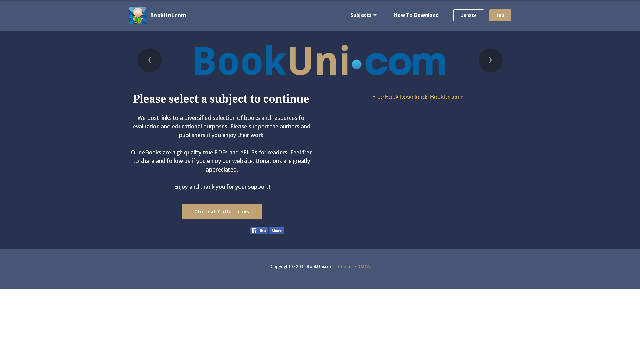
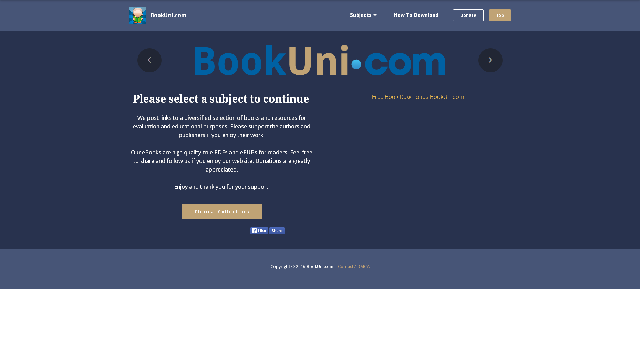
test
test

Changed region(s): [[0.625, 0.2632, 0.7188, 0.2924], [0.7188, 0.0292, 0.75, 0.0585], [0.25, 0.0292, 0.2812, 0.0585]]

diff --git a/cc/anatomic basis of neurologic diagnosis.html b/cc/anatomic basis of neurologic diagnosis.html
@@ -1,0 +1,89 @@
+<!DOCTYPE html>
+<html>
+<head>
+  <meta charset="UTF-8">
+  <meta http-equiv="X-UA-Compatible" content="IE=edge">
+  <meta name="viewport" content="width=device-width, initial-scale=1">
+  <link rel="shortcut icon" href="/assets/images/bookuniavatar.png" type="image/x-icon">
+  <link rel="stylesheet" href="https://fonts.googleapis.com/css?family=Lora:400,700,400italic,700italic&amp;subset=latin">
+  <link rel="stylesheet" href="https://fonts.googleapis.com/css?family=Montserrat:400,700">
+  <link rel="stylesheet" href="https://fonts.googleapis.com/css?family=Raleway:400,100,200,300,500,600,700,800,900">
+  <link rel="stylesheet" href="/assets/et-line-font-plugin/style.css">
+  <link rel="stylesheet" href="/assets/bootstrap-material-design-font/css/material.css">
+  <link rel="stylesheet" href="/assets/tether/tether.min.css">
+  <link rel="stylesheet" href="/assets/bootstrap/css/bootstrap.min.css">
+  <link rel="stylesheet" href="/assets/socicon/css/socicon.min.css">
+  <link rel="stylesheet" href="/assets/dropdown/css/style.css">
+  <link rel="stylesheet" href="/assets/theme/css/style.css">
+  <link rel="stylesheet" href="/assets/mobirise/css/mbr-additional.css" type="text/css">
+  <link rel="stylesheet" href="/add/mixitup.css">
+<script src="/add/pre.js"></script>
+<title>Anatomic Basis of Neurologic Diagnosis - BookUni.com</title>
+<meta name="description" content="Anatomic Basis of Neurologic Diagnosis - Free Book Download Links and Amazon Links. PDF and ePUB formats for your reading pleasure!">
+<meta property="og:image" content="https://images-na.ssl-images-amazon.com/images/I/51Ji-nCmjtL.jpg" />
+</head>
+<body>
+<section id="ext_menu-15">
+    <nav class="navbar navbar-dropdown navbar-fixed-top">
+        <div class="container">
+            <div class="mbr-table">
+                <div class="mbr-table-cell">
+                    <div class="navbar-brand">
+                        <a href="/" class="navbar-logo"><img src="/assets/images/bookuniavatar.png" alt="BookUni" title="BookUni"></a>
+                        <a class="navbar-caption" href="/">BookUni.com</a>
+                    </div>
+                </div>
+                <div class="mbr-table-cell">
+                    <button class="navbar-toggler pull-xs-right hidden-md-up" type="button" data-toggle="collapse" data-target="#exCollapsingNavbar"><div class="hamburger-icon"></div></button>
+                    <ul class="nav-dropdown collapse pull-xs-right nav navbar-nav navbar-toggleable-sm" id="exCollapsingNavbar"><li class="nav-item"><a class="nav-link link" href="/download.html">How To Download</a></li><li class="nav-item nav-btn"><a class="nav-link btn btn-white btn-white-outline" href="https://www.paypal.me/BookUni" target="_blank">Donate</a></li><li class="nav-item nav-btn"><a class="nav-link btn btn-primary" href="#top">Top</a></li></ul>
+                    <button hidden="" class="navbar-toggler navbar-close" type="button" data-toggle="collapse" data-target="#exCollapsingNavbar"><div class="close-icon"></div></button>
+                </div>
+            </div>
+        </div>
+    </nav>
+</section>
+<div id="custom-html-17" custom-code="true" class="mbr-after-navbar"><section class="mbr-section" style="background-color: rgb(40, 50, 78); padding-top: 120px; padding-bottom: 20px;">
+    <div class="container">
+        <div class="row">
+            <div class="mbr-table-md-up">
+                <div class="mbr-table-cell mbr-valign-top col-md-2 text-xs-center">
+                    <div class="mbr-figure"><img src="https://images-na.ssl-images-amazon.com/images/I/51Ji-nCmjtL.jpg" alt="Anatomic Basis of Neurologic Diagnosis (1st 2009) [Alberstone, Benzel, Najm & Steinmetz]"></div>
+                    <!-- 链接: http://pan.baidu.com/s/1cDu0zW 密码: fdrs --><small class="mbr-section-subtitle" style="margin-bottom: 20px">(1st 2009)</small>
+                    <div class="addthis_inline_follow_toolbox"></div>
+                    <iframe src="https://www.facebook.com/plugins/like.php?href=https%3A%2F%2Fwww.facebook.com%2FBookUniSite&amp;width=120&amp;layout=button&amp;action=like&amp;size=large&amp;show_faces=false&amp;share=true&amp;height=50&amp;appId" width="120" height="50" style="border:none;overflow:hidden" scrolling="no" frameborder="0" allowtransparency="true"></iframe>
+                    <!-- ADs <div></div> -->
+                </div>
+                <div class="mbr-table-cell mbr-valign-top col-md-7">
+                    <h1 class="mbr-section-title display-2">Anatomic Basis of Neurologic Diagnosis</h1>
+                    <small class="mbr-section-subtitle" style="margin-bottom: 20px">[Alberstone, Benzel, Najm & Steinmetz]</small>
+                    <p>Anatomic Basis of Neurologic Diagnosis is a lavishly illustrated book that places special emphasis on the paramount importance of signs and symptoms for the accurate diagnosis of neurologic disorders. It opens with a comprehensive review of neuroembryology, enabling readers to gain knowledge of normal nervous system development and related developmental disorders. The second section of the book comprises an easily accessible presentation of the anatomy of regional parts and to-the-point information on the cardinal manifestations of disease. Separate chapters in the third section of the book present the anatomy of different functional systems and provide practical approaches to diagnosing patients with system disorders. A final chapter covers the anatomy of the vascular system and cerebrospinal fluid.</p>
+                    <h3>Highlights:</h3>
+                    <ul><li>Practical organization of chapters, according to regions and functional systems, reflects the clinician's approach to patient care</li><li>Full-color illustrations provide an indispensable visual aid to learning and reviewing clinically relevant neurologic anatomy and pathways</li><li>Numerous tables summarize key points</li><li>Ideal for reading cover-to-cover, this book is essential for residents and students seeking to fully understand the complexity of clinical neuroanatomy. Seasoned clinicians will find the book a valuable refresher.</li></ul>
+                    <!-- ADs <div style="padding-bottom: 20px"></div> -->
+                    <div class="text-xs-center"><a class="btn btn-warning" href="https://www.amazon.com/dp/B005KMEWVQ" target="_blank">Buy on Amazon</a> <a class="btn btn-primary" href="http://viid.me/qeJ5GZ" target="_blank">Download PDF</a> <a class="btn btn-info" href="http://adf.ly/1gaXqG" target="_blank">Password Link</a></div>
+                </div>
+                <div class="mbr-table-cell mbr-valign-top col-md-3 text-md-left text-xs-center">
+                    <h2 class="mbr-section-title display-2">Subjects</h2>
+                    <p><a href="/subject/clinical collections.html">Clinical Collections</a></p>
+                    <iframe src="https://www.facebook.com/plugins/like.php?href=https%3A%2F%2Fwww.facebook.com%2FBookUniSite&amp;width=120&amp;layout=button&amp;action=like&amp;size=large&amp;show_faces=false&amp;share=true&amp;height=65&amp;appId" width="120" height="50" style="border:none;overflow:hidden" scrolling="no" frameborder="0" allowtransparency="true"></iframe>
+                </div>
+            </div>
+        </div>
+        <!-- ADs <div></div> -->
+    </div>
+</section></div>
+<footer class="mbr-small-footer mbr-section mbr-section-nopadding" id="footer1-16" style="background-color: rgb(71, 85, 119); padding-top: 2.625rem; padding-bottom: 3.5rem;">
+    <div class="container">
+        <p class="text-xs-center">Copyright © 2016 BookUni.com | <a href="/contact.html" target="_blank">Contact / DMCA</a></p>
+    </div>
+</footer>
+  <script src="/assets/web/assets/jquery/jquery.min.js"></script>
+  <script src="/assets/tether/tether.min.js"></script>
+  <script src="/assets/bootstrap/js/bootstrap.min.js"></script>
+  <script src="/assets/smooth-scroll/SmoothScroll.js"></script>
+  <script src="/assets/dropdown/js/script.min.js"></script>
+  <script src="/assets/touchSwipe/jquery.touchSwipe.min.js"></script>
+  <script src="/assets/theme/js/script.js"></script>
+  <script src="/add/post.js"></script>
+</body>
+</html>

diff --git a/cc/al-mefty's meningiomas.html b/cc/al-mefty's meningiomas.html
@@ -1,0 +1,87 @@
+<!DOCTYPE html>
+<html>
+<head>
+  <meta charset="UTF-8">
+  <meta http-equiv="X-UA-Compatible" content="IE=edge">
+  <meta name="viewport" content="width=device-width, initial-scale=1">
+  <link rel="shortcut icon" href="/assets/images/bookuniavatar.png" type="image/x-icon">
+  <link rel="stylesheet" href="https://fonts.googleapis.com/css?family=Lora:400,700,400italic,700italic&amp;subset=latin">
+  <link rel="stylesheet" href="https://fonts.googleapis.com/css?family=Montserrat:400,700">
+  <link rel="stylesheet" href="https://fonts.googleapis.com/css?family=Raleway:400,100,200,300,500,600,700,800,900">
+  <link rel="stylesheet" href="/assets/et-line-font-plugin/style.css">
+  <link rel="stylesheet" href="/assets/bootstrap-material-design-font/css/material.css">
+  <link rel="stylesheet" href="/assets/tether/tether.min.css">
+  <link rel="stylesheet" href="/assets/bootstrap/css/bootstrap.min.css">
+  <link rel="stylesheet" href="/assets/socicon/css/socicon.min.css">
+  <link rel="stylesheet" href="/assets/dropdown/css/style.css">
+  <link rel="stylesheet" href="/assets/theme/css/style.css">
+  <link rel="stylesheet" href="/assets/mobirise/css/mbr-additional.css" type="text/css">
+  <link rel="stylesheet" href="/add/mixitup.css">
+<script src="/add/pre.js"></script>
+<title>Al-Mefty's Meningiomas - BookUni.com</title>
+<meta name="description" content="Al-Mefty's Meningiomas - Free Book Download Links and Amazon Links. PDF and ePUB formats for your reading pleasure!">
+<meta property="og:image" content="https://images-na.ssl-images-amazon.com/images/I/41OX-1U+L9L.jpg" />
+</head>
+<body>
+<section id="ext_menu-15">
+    <nav class="navbar navbar-dropdown navbar-fixed-top">
+        <div class="container">
+            <div class="mbr-table">
+                <div class="mbr-table-cell">
+                    <div class="navbar-brand">
+                        <a href="/" class="navbar-logo"><img src="/assets/images/bookuniavatar.png" alt="BookUni" title="BookUni"></a>
+                        <a class="navbar-caption" href="/">BookUni.com</a>
+                    </div>
+                </div>
+                <div class="mbr-table-cell">
+                    <button class="navbar-toggler pull-xs-right hidden-md-up" type="button" data-toggle="collapse" data-target="#exCollapsingNavbar"><div class="hamburger-icon"></div></button>
+                    <ul class="nav-dropdown collapse pull-xs-right nav navbar-nav navbar-toggleable-sm" id="exCollapsingNavbar"><li class="nav-item"><a class="nav-link link" href="/download.html">How To Download</a></li><li class="nav-item nav-btn"><a class="nav-link btn btn-white btn-white-outline" href="https://www.paypal.me/BookUni" target="_blank">Donate</a></li><li class="nav-item nav-btn"><a class="nav-link btn btn-primary" href="#top">Top</a></li></ul>
+                    <button hidden="" class="navbar-toggler navbar-close" type="button" data-toggle="collapse" data-target="#exCollapsingNavbar"><div class="close-icon"></div></button>
+                </div>
+            </div>
+        </div>
+    </nav>
+</section>
+<div id="custom-html-17" custom-code="true" class="mbr-after-navbar"><section class="mbr-section" style="background-color: rgb(40, 50, 78); padding-top: 120px; padding-bottom: 20px;">
+    <div class="container">
+        <div class="row">
+            <div class="mbr-table-md-up">
+                <div class="mbr-table-cell mbr-valign-top col-md-2 text-xs-center">
+                    <div class="mbr-figure"><img src="https://images-na.ssl-images-amazon.com/images/I/41OX-1U+L9L.jpg" alt="Al-Mefty's Meningiomas (2nd 2011) [DeMonte, McDermott & Al-Mefty]"></div>
+                    <!-- 链接: http://pan.baidu.com/s/1o7J1vnW 密码: a8ag --><small class="mbr-section-subtitle" style="margin-bottom: 20px">(2nd 2011)</small>
+                    <div class="addthis_inline_follow_toolbox"></div>
+                    <iframe src="https://www.facebook.com/plugins/like.php?href=https%3A%2F%2Fwww.facebook.com%2FBookUniSite&amp;width=120&amp;layout=button&amp;action=like&amp;size=large&amp;show_faces=false&amp;share=true&amp;height=50&amp;appId" width="120" height="50" style="border:none;overflow:hidden" scrolling="no" frameborder="0" allowtransparency="true"></iframe>
+                    <!-- ADs <div></div> -->
+                </div>
+                <div class="mbr-table-cell mbr-valign-top col-md-7">
+                    <h1 class="mbr-section-title display-2">Al-Mefty's Meningiomas</h1>
+                    <small class="mbr-section-subtitle" style="margin-bottom: 20px">[DeMonte, McDermott & Al-Mefty]</small>
+                    <p>Al-Mefty's Meningiomas, Second Edition is the definitive guide to meningioma diagnosis, treatment, and surgery, and reflects over a decade of major advances in the diagnosis and management of both intracranial and spinal meningiomas since the first edition was published.The text begins with important information on anatomy, pathology, and epidemiology, followed by clinical and preoperative considerations. The expert authors then provide detailed descriptions of state-of-the-art surgical approaches listed by anatomical site and special operative considerations for intracranial meningiomas. The book closes with incisive discussion of breakthroughs in radiosurgery, radiotherapy and chemotherapy.Features[li]New to this edition: information on molecular biology, natural history and growth rates, the rise of radiosurgery as a viable treatment option, and much more[/li][li]Over 500 high-quality radiographic images and full-color illustrations demonstrate anatomy and surgery[/li][li]In-depth coverage of intraoperative MRI and endoscopic resection[/li][li]Key topics often missing from other meningiomas texts including caseload management, and postoperative quality of life issues[/li]This landmark reference will enhance the precision and surgical skills of every clinician or resident in neurosurgery or neurology.</p>
+                    <!-- ADs <div style="padding-bottom: 20px"></div> -->
+                    <div class="text-xs-center"><a class="btn btn-warning" href="https://www.amazon.com/dp/B005V2AKDY" target="_blank">Buy on Amazon</a> <a class="btn btn-primary" href="http://viid.me/qeJ5xx" target="_blank">Download PDF</a> <a class="btn btn-info" href="http://adf.ly/1gaXkP" target="_blank">Password Link</a></div>
+                </div>
+                <div class="mbr-table-cell mbr-valign-top col-md-3 text-md-left text-xs-center">
+                    <h2 class="mbr-section-title display-2">Subjects</h2>
+                    <p><a href="/subject/clinical collections.html">Clinical Collections</a></p>
+                    <iframe src="https://www.facebook.com/plugins/like.php?href=https%3A%2F%2Fwww.facebook.com%2FBookUniSite&amp;width=120&amp;layout=button&amp;action=like&amp;size=large&amp;show_faces=false&amp;share=true&amp;height=65&amp;appId" width="120" height="50" style="border:none;overflow:hidden" scrolling="no" frameborder="0" allowtransparency="true"></iframe>
+                </div>
+            </div>
+        </div>
+        <!-- ADs <div></div> -->
+    </div>
+</section></div>
+<footer class="mbr-small-footer mbr-section mbr-section-nopadding" id="footer1-16" style="background-color: rgb(71, 85, 119); padding-top: 2.625rem; padding-bottom: 3.5rem;">
+    <div class="container">
+        <p class="text-xs-center">Copyright © 2016 BookUni.com | <a href="/contact.html" target="_blank">Contact / DMCA</a></p>
+    </div>
+</footer>
+  <script src="/assets/web/assets/jquery/jquery.min.js"></script>
+  <script src="/assets/tether/tether.min.js"></script>
+  <script src="/assets/bootstrap/js/bootstrap.min.js"></script>
+  <script src="/assets/smooth-scroll/SmoothScroll.js"></script>
+  <script src="/assets/dropdown/js/script.min.js"></script>
+  <script src="/assets/touchSwipe/jquery.touchSwipe.min.js"></script>
+  <script src="/assets/theme/js/script.js"></script>
+  <script src="/add/post.js"></script>
+</body>
+</html>

diff --git a/cc/statistics and data management a practical guide for orthopaedic surgeons.html b/cc/statistics and data management a practical guide for orthopaedic surgeons.html
@@ -1,0 +1,87 @@
+<!DOCTYPE html>
+<html>
+<head>
+  <meta charset="UTF-8">
+  <meta http-equiv="X-UA-Compatible" content="IE=edge">
+  <meta name="viewport" content="width=device-width, initial-scale=1">
+  <link rel="shortcut icon" href="/assets/images/bookuniavatar.png" type="image/x-icon">
+  <link rel="stylesheet" href="https://fonts.googleapis.com/css?family=Lora:400,700,400italic,700italic&amp;subset=latin">
+  <link rel="stylesheet" href="https://fonts.googleapis.com/css?family=Montserrat:400,700">
+  <link rel="stylesheet" href="https://fonts.googleapis.com/css?family=Raleway:400,100,200,300,500,600,700,800,900">
+  <link rel="stylesheet" href="/assets/et-line-font-plugin/style.css">
+  <link rel="stylesheet" href="/assets/bootstrap-material-design-font/css/material.css">
+  <link rel="stylesheet" href="/assets/tether/tether.min.css">
+  <link rel="stylesheet" href="/assets/bootstrap/css/bootstrap.min.css">
+  <link rel="stylesheet" href="/assets/socicon/css/socicon.min.css">
+  <link rel="stylesheet" href="/assets/dropdown/css/style.css">
+  <link rel="stylesheet" href="/assets/theme/css/style.css">
+  <link rel="stylesheet" href="/assets/mobirise/css/mbr-additional.css" type="text/css">
+  <link rel="stylesheet" href="/add/mixitup.css">
+<script src="/add/pre.js"></script>
+<title>Statistics and Data Management A Practical Guide for Orthopaedic Surgeons - BookUni.com</title>
+<meta name="description" content="Statistics and Data Management A Practical Guide for Orthopaedic Surgeons - Free Book Download Links and Amazon Links. PDF and ePUB formats for your reading pleasure!">
+<meta property="og:image" content="https://images-na.ssl-images-amazon.com/images/I/41gI8Cp6bTL.jpg" />
+</head>
+<body>
+<section id="ext_menu-15">
+    <nav class="navbar navbar-dropdown navbar-fixed-top">
+        <div class="container">
+            <div class="mbr-table">
+                <div class="mbr-table-cell">
+                    <div class="navbar-brand">
+                        <a href="/" class="navbar-logo"><img src="/assets/images/bookuniavatar.png" alt="BookUni" title="BookUni"></a>
+                        <a class="navbar-caption" href="/">BookUni.com</a>
+                    </div>
+                </div>
+                <div class="mbr-table-cell">
+                    <button class="navbar-toggler pull-xs-right hidden-md-up" type="button" data-toggle="collapse" data-target="#exCollapsingNavbar"><div class="hamburger-icon"></div></button>
+                    <ul class="nav-dropdown collapse pull-xs-right nav navbar-nav navbar-toggleable-sm" id="exCollapsingNavbar"><li class="nav-item"><a class="nav-link link" href="/download.html">How To Download</a></li><li class="nav-item nav-btn"><a class="nav-link btn btn-white btn-white-outline" href="https://www.paypal.me/BookUni" target="_blank">Donate</a></li><li class="nav-item nav-btn"><a class="nav-link btn btn-primary" href="#top">Top</a></li></ul>
+                    <button hidden="" class="navbar-toggler navbar-close" type="button" data-toggle="collapse" data-target="#exCollapsingNavbar"><div class="close-icon"></div></button>
+                </div>
+            </div>
+        </div>
+    </nav>
+</section>
+<div id="custom-html-17" custom-code="true" class="mbr-after-navbar"><section class="mbr-section" style="background-color: rgb(40, 50, 78); padding-top: 120px; padding-bottom: 20px;">
+    <div class="container">
+        <div class="row">
+            <div class="mbr-table-md-up">
+                <div class="mbr-table-cell mbr-valign-top col-md-2 text-xs-center">
+                    <div class="mbr-figure"><img src="https://images-na.ssl-images-amazon.com/images/I/41gI8Cp6bTL.jpg" alt="Statistics and Data Management A Practical Guide for Orthopaedic Surgeons (1st 2010) [Stengel, Bhandari & Hanson]"></div>
+                    <!-- 链接: http://pan.baidu.com/s/1mhTEMRe 密码: j8bu --><small class="mbr-section-subtitle" style="margin-bottom: 20px">(1st 2010)</small>
+                    <div class="addthis_inline_follow_toolbox"></div>
+                    <iframe src="https://www.facebook.com/plugins/like.php?href=https%3A%2F%2Fwww.facebook.com%2FBookUniSite&amp;width=120&amp;layout=button&amp;action=like&amp;size=large&amp;show_faces=false&amp;share=true&amp;height=50&amp;appId" width="120" height="50" style="border:none;overflow:hidden" scrolling="no" frameborder="0" allowtransparency="true"></iframe>
+                    <!-- ADs <div></div> -->
+                </div>
+                <div class="mbr-table-cell mbr-valign-top col-md-7">
+                    <h1 class="mbr-section-title display-2">Statistics and Data Management A Practical Guide for Orthopaedic Surgeons</h1>
+                    <small class="mbr-section-subtitle" style="margin-bottom: 20px">[Stengel, Bhandari & Hanson]</small>
+                    <p>Applying new technologies, presenting your experience, and, of course, thinking of your current practice in the light of new evidence, needs some understanding of clinical research methodology.This book is not a textbook, but a brief guidance for clinical research practice. It aims at bridging the different points of view of statisticians and clinicians, but does not replace personal meetings and discussions between both professions at the earliest step of a clinical study. We hope that you find this book enjoyable, easy to read and understand, and helpful for improving your research skills.Me, the editors, and the authors hope that this book will help you to sort and focus your ideas when setting up a clinical study, and to understand why certain information should be expressed in this or that fashion, how data should be compiled, analyzed, and presented. This book is neither exhaustive nor complete; it just fits better into your daily business. - David L Helfet</p>
+                    <!-- ADs <div style="padding-bottom: 20px"></div> -->
+                    <div class="text-xs-center"><a class="btn btn-warning" href="https://www.amazon.com/dp/B00F8LWVY4" target="_blank">Buy on Amazon</a> <a class="btn btn-primary" href="http://viid.me/qeJ6rT" target="_blank">Download PDF</a> <a class="btn btn-info" href="http://adf.ly/1gaXwA" target="_blank">Password Link</a></div>
+                </div>
+                <div class="mbr-table-cell mbr-valign-top col-md-3 text-md-left text-xs-center">
+                    <h2 class="mbr-section-title display-2">Subjects</h2>
+                    <p><a href="/subject/clinical collections.html">Clinical Collections</a></p>
+                    <iframe src="https://www.facebook.com/plugins/like.php?href=https%3A%2F%2Fwww.facebook.com%2FBookUniSite&amp;width=120&amp;layout=button&amp;action=like&amp;size=large&amp;show_faces=false&amp;share=true&amp;height=65&amp;appId" width="120" height="50" style="border:none;overflow:hidden" scrolling="no" frameborder="0" allowtransparency="true"></iframe>
+                </div>
+            </div>
+        </div>
+        <!-- ADs <div></div> -->
+    </div>
+</section></div>
+<footer class="mbr-small-footer mbr-section mbr-section-nopadding" id="footer1-16" style="background-color: rgb(71, 85, 119); padding-top: 2.625rem; padding-bottom: 3.5rem;">
+    <div class="container">
+        <p class="text-xs-center">Copyright © 2016 BookUni.com | <a href="/contact.html" target="_blank">Contact / DMCA</a></p>
+    </div>
+</footer>
+  <script src="/assets/web/assets/jquery/jquery.min.js"></script>
+  <script src="/assets/tether/tether.min.js"></script>
+  <script src="/assets/bootstrap/js/bootstrap.min.js"></script>
+  <script src="/assets/smooth-scroll/SmoothScroll.js"></script>
+  <script src="/assets/dropdown/js/script.min.js"></script>
+  <script src="/assets/touchSwipe/jquery.touchSwipe.min.js"></script>
+  <script src="/assets/theme/js/script.js"></script>
+  <script src="/add/post.js"></script>
+</body>
+</html>

diff --git a/subject/clinical collections.html b/subject/clinical collections.html
@@ -123,6 +123,14 @@
         <img class="img" src="https://images-na.ssl-images-amazon.com/images/I/41O2B84CKoL.jpg" alt="Allergy in ENT Practice The Basic Guide (2nd 2004) [King, Mabry, Mabry, Gordon & Marple]"/>
         <p class="title">Allergy in ENT Practice The Basic Guide<br>(2nd 2004)<br>[King, Mabry, Mabry, Gordon & Marple]</p>
         <a class="link" href="/cc/allergy in ent practice the basic guide" target="_blank">Read More</a></div>
+    <div class="mix" data-title="Al-Mefty's Meningiomas" data-year="20110517">
+        <img class="img" src="https://images-na.ssl-images-amazon.com/images/I/41OX-1U+L9L.jpg" alt="Al-Mefty's Meningiomas (2nd 2011) [DeMonte, McDermott & Al-Mefty]"/>
+        <p class="title">Al-Mefty's Meningiomas<br>(2nd 2011)<br>[DeMonte, McDermott & Al-Mefty]</p>
+        <a class="link" href="/cc/al-mefty's meningiomas.html" target="_blank">Read More</a></div>
+    <div class="mix" data-title="Anatomic Basis of Neurologic Diagnosis" data-year="20090428">
+        <img class="img" src="https://images-na.ssl-images-amazon.com/images/I/51Ji-nCmjtL.jpg" alt="Anatomic Basis of Neurologic Diagnosis (1st 2009) [Alberstone, Benzel, Najm & Steinmetz]"/>
+        <p class="title">Anatomic Basis of Neurologic Diagnosis<br>(1st 2009)<br>[Alberstone, Benzel, Najm & Steinmetz]</p>
+        <a class="link" href="/cc/anatomic basis of neurologic diagnosis.html" target="_blank">Read More</a></div>
     <div class="mix" data-title="Color Atlas of Dental Medicine Aesthetic Dentistry" data-year="20000926">
         <img class="img" src="https://images-na.ssl-images-amazon.com/images/I/51fhaMEFnZL.jpg" alt="Color Atlas of Dental Medicine Aesthetic Dentistry (1st 2000) [Schmidseder]"/>
         <p class="title">Color Atlas of Dental Medicine Aesthetic Dentistry<br>(1st 2000)<br>[Schmidseder]</p>
@@ -131,6 +139,10 @@
         <img class="img" src="https://images-na.ssl-images-amazon.com/images/I/51M70nXmMPL.jpg" alt="Essentials of Skeletal Radiology (3rd 2004) [Yochum & Rowe]"/>
         <p class="title">Essentials of Skeletal Radiology<br>(3rd 2004)<br>[Yochum & Rowe]</p>
         <a class="link" href="/cc/essentials of skeletal radiology.html" target="_blank">Read More</a></div>
+    <div class="mix" data-title="Statistics and Data Management A Practical Guide for Orthopaedic Surgeons" data-year="20100202">
+        <img class="img" src="https://images-na.ssl-images-amazon.com/images/I/41gI8Cp6bTL.jpg" alt="Statistics and Data Management A Practical Guide for Orthopaedic Surgeons (1st 2010) [Stengel, Bhandari & Hanson]"/>
+        <p class="title">Statistics and Data Management A Practical Guide for Orthopaedic Surgeons<br>(1st 2010)<br>[Stengel, Bhandari & Hanson]</p>
+        <a class="link" href="/cc/statistics and data management a practical guide for orthopaedic surgeons.html" target="_blank">Read More</a></div>
     <div class="gap"></div>
     <div class="gap"></div>
     <div class="gap"></div>

diff --git a/index.html b/index.html
@@ -94,7 +94,7 @@
         <div class="row">
             <div class="mbr-table-md-up">
                 <div class="mbr-table-cell mbr-valign-top col-md-6 text-xs-center">
-                    <h3 class="mbr-section-title display-2">Please select a subject to continue</h3>
+                    <h1 class="mbr-section-title display-2">Please select a subject to continue</h1>
                     <div class="lead"><p>We post links to a diversified selection of books and resources for evaluation and educational purposes. Please support the authors and publishers if you enjoy their work.<br><br>Our eBooks are high quality true PDFs and ePUBs for readers. Feel free to share and follow us if you enjoy our website. Donations are greatly appreciated.<br><br>Enjoy and thank you for your support!</p></div>
                     <div><a class="btn btn-primary" href="/subject/clinical collections.html" target="_blank">Clinical Collections</a> </div>
                     <div class="row">

diff --git a/download.html b/download.html
@@ -65,7 +65,7 @@
         <div class="row">
             <div class="mbr-table-md-up">
                 <div class="mbr-table-cell mbr-valign-top col-md-8 text-xs-center">
-                    <h3 class="mbr-info-title mbr-section-title display-2">How To Download</h3>
+                    <h1 class="mbr-info-title mbr-section-title display-2">How To Download</h1>
                     <h2 class="mbr-info-subtitle mbr-section-subtitle">Our links open in a new AD sponsored page. Please follow the download instructions below. For some larger downloads, you may need to create a Baidu, QQ or Weibo account to login.</h2>
                     <div class="row">
                         <div class="col-xs-6 addthis_inline_follow_toolbox"></div>

diff --git a/password.html b/password.html
@@ -66,7 +66,7 @@
         <div class="row">
             <div class="mbr-table-md-up">
                 <div class="mbr-table-cell mbr-valign-top col-md-8 text-md-right text-xs-center">
-                    <h3 class="mbr-section-title display-2">Your Password is:</h3>
+                    <h1 class="mbr-section-title display-2">Your Password is:</h1>
                     <p id="pass">Loading...</p>
                     <div class="row">
                         <div class="col-md-4 addthis_inline_follow_toolbox"></div>

diff --git a/assets/mobirise/css/mbr-additional.css b/assets/mobirise/css/mbr-additional.css
@@ -79,7 +79,7 @@
   
   
 }
-#custom-html-1 H3 {
+#custom-html-1 H1 {
   font-family: 'Droid Serif', serif;
   font-size: 32px;
   color: #ffffff;
@@ -295,7 +295,7 @@
   
   
 }
-#msg-box5-9 H3 {
+#msg-box5-9 H1 {
   font-family: 'Droid Serif', serif;
   color: #ffffff;
 }
